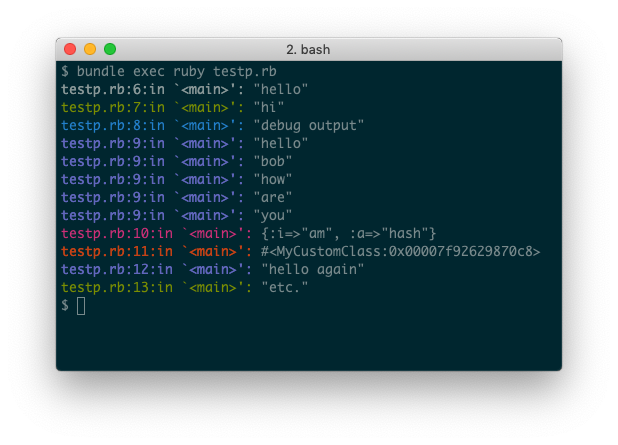
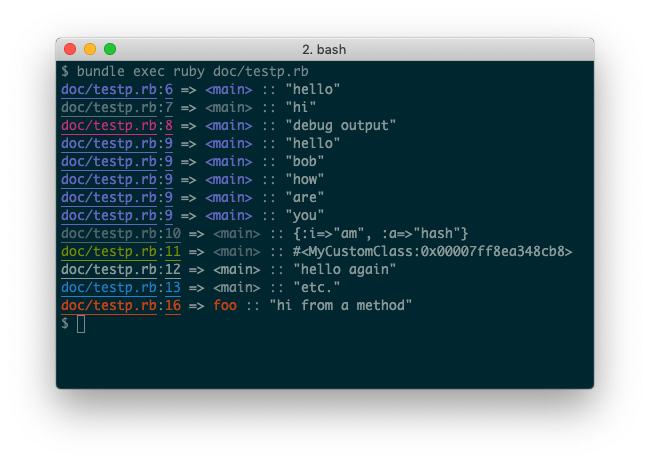
Use relative paths in output, underline prefix
When the source is a file use a relative path in prefix otherwise use
the given path (e.g. "(irb)").

Underline the file and line number to help distinguish output among
other colourised output (e.g. RSpec output).

Refactor and add more tests.

Changed region(s): [[0.0615, 0.0876, 0.9223, 0.8472]]

diff --git a/lib/betterp/output.rb b/lib/betterp/output.rb
@@ -1,38 +1,62 @@
+# frozen_string_literal: true
+
 module Betterp
   class Output
-    COLORS = %i[
-      red
-      green
-      yellow
-      blue
-      magenta
-      cyan
-    ].freeze
-
+    COLORS = %i[red green yellow blue magenta cyan].freeze
     EFFECTS = [:bright, nil].freeze
 
-    def initialize(source)
+    def initialize(raw, source)
+      @raw = raw
       @source = source
+      @color = color
+      @effect = effect
     end
 
     def format(args)
       args.map do |arg|
-        colorize("#{@source}: ") + arg.inspect
+        colorize(prefix) + Paint[arg.inspect, :default, :bright]
       end
     end
 
     private
 
+    def prefix
+      # rubocop:disable Style/FormatStringToken
+      [
+        '%{path}',
+        '%{separator}',
+        '%{line_no}',
+        '%{method_pointer}',
+        '%{method_name}',
+        '%{terminator}'
+      ].join
+      # rubocop:enable Style/FormatStringToken
+    end
+
     def colorize(string)
-      Paint[string, color, effect]
+      # rubocop:disable Style/FormatString
+      Paint % [string, color, mapping]
+      # rubocop:enable Style/FormatString
+    end
+
+    def mapping
+      {
+        path: [@source.path, color, :underline, effect],
+        line_no: [@source.line_no, :underline, color, effect],
+        method_name: [@source.method_name, color, effect],
+
+        method_pointer: [' => ', :default, :reset, :bright],
+        separator: [':', :default, :reset],
+        terminator: [' :: ', :default, :reset]
+      }
     end
 
     def color
-      COLORS[hash(@source).hex % COLORS.size]
+      COLORS[hash(@raw).hex % COLORS.size]
     end
 
     def effect
-      EFFECTS[hash(hash(@source)).hex % EFFECTS.size]
+      EFFECTS[hash(hash(@raw)).hex % EFFECTS.size]
     end
 
     def hash(input)

diff --git a/spec/betterp/output_spec.rb b/spec/betterp/output_spec.rb
@@ -1,0 +1,28 @@
+# frozen_string_literal: true
+
+RSpec.describe Betterp::Output do
+  subject(:output) { described_class.new(raw, source) }
+
+  let(:raw) { 'raw caller info' }
+  let(:source) do
+    instance_double(
+      Betterp::Source,
+      path: '/path/to/file.rb',
+      line_no: 100,
+      method_name: 'test_method'
+    )
+  end
+
+  it { is_expected.to be_a described_class }
+
+  describe '#format' do
+    subject(:format) { output.format(['hello']) }
+
+    its(:size) { is_expected.to eql 1 }
+    its(:first) { is_expected.to include '/path/to/file.rb' }
+    its(:first) { is_expected.to include 'test_method' }
+    its(:first) { is_expected.to include 'hello' }
+    its(:first) { is_expected.to include '[33m' }
+    its(:first) { is_expected.to end_with '[0m' }
+  end
+end

diff --git a/spec/betterp_spec.rb b/spec/betterp_spec.rb
@@ -6,14 +6,13 @@ RSpec.describe Betterp do
   end
 
   it 'outputs to stdout' do
-    path = __FILE__
-    line_no = 19 # Line we call `p('something')` below.
+    path = Pathname.new(__FILE__).relative_path_from(Betterp.root)
+    line_no = 18 # Line we call `p('something')` below.
     expect(STDOUT)
       .to receive(:write)
       .with(any_args) do |arg|
-        expect(arg).to include "#{path}:#{line_no}"
-        expect(arg).to include "\e[36"
-        expect(arg).to include %Q{\e[0m\"something"\n}
+        expect(arg).to include path.to_s
+        expect(arg).to include line_no.to_s
       end
 
     p('something')

diff --git a/spec/betterp/source_spec.rb b/spec/betterp/source_spec.rb
@@ -1,0 +1,20 @@
+# frozen_string_literal: true
+
+RSpec.describe Betterp::Source do
+  subject(:source) { described_class.new(caller_source, base_path) }
+
+  let(:caller_source) { "#{path}:100:in `test_method'" }
+  let(:path) { '/path/to/file.rb' }
+  let(:base_path) { '/path/to/' }
+
+  it { is_expected.to be_a described_class }
+
+  its(:path) { is_expected.to eql 'file.rb' }
+  its(:line_no) { is_expected.to eql 100 }
+  its(:method_name) { is_expected.to eql 'test_method' }
+
+  context 'path is not a file' do
+    let(:path) { '(irb)' }
+    its(:path) { is_expected.to eql '(irb)' }
+  end
+end

diff --git a/lib/betterp/source.rb b/lib/betterp/source.rb
@@ -1,0 +1,25 @@
+# frozen_string_literal: true
+
+module Betterp
+  class Source
+    def initialize(source, base_path)
+      @source = source
+      @base_path = base_path
+      @path, @line_no, @method_info = source.split(':')
+    end
+
+    def path
+      Pathname.new(@path).relative_path_from(Pathname.new(@base_path)).to_s
+    rescue ArgumentError
+      @path
+    end
+
+    def line_no
+      @line_no.to_i
+    end
+
+    def method_name
+      @method_info.partition('`').last.chomp("'")
+    end
+  end
+end

diff --git a/lib/kernel.rb b/lib/kernel.rb
@@ -1,8 +1,14 @@
+# frozen_string_literal: true
+
 module Kernel
   def p(*args)
-    Betterp::Output.new(caller(1..1).first).format(args).each do |output|
+    raw = caller(1..1).first
+    source = Betterp::Source.new(raw, Dir.pwd)
+
+    Betterp::Output.new(raw, source).format(args).each do |output|
       STDOUT.write(output + "\n")
     end
+
     args.size > 1 ? args : args.first
   end
 end

diff --git a/doc/testp.rb b/doc/testp.rb
@@ -1,0 +1,19 @@
+require 'betterp'
+
+class MyCustomClass
+end
+
+p 'hello'
+p 'hi'
+p 'debug output'
+p *%w[hello bob how are you]
+p({ i: 'am', a: 'hash' })
+p MyCustomClass.new
+p 'hello again'
+p 'etc.'
+
+def foo
+  p 'hi from a method'
+end
+
+foo

diff --git a/spec/spec_helper.rb b/spec/spec_helper.rb
@@ -1,7 +1,11 @@
 # frozen_string_literal: true
 
 require 'bundler/setup'
+require 'tempfile'
+
 require 'betterp'
+
+require 'rspec/its'
 
 RSpec.configure do |config|
   # Enable flags like --only-failures and --next-failure

diff --git a/lib/betterp.rb b/lib/betterp.rb
@@ -6,7 +6,11 @@ require 'paint'
 
 require 'kernel'
 require 'betterp/output'
+require 'betterp/source'
 require 'betterp/version'
 
 module Betterp
+  def self.root
+    Pathname.new(File.dirname(__dir__))
+  end
 end

diff --git a/lib/betterp/version.rb b/lib/betterp/version.rb
@@ -1,5 +1,5 @@
 # frozen_string_literal: true
 
 module Betterp
-  VERSION = '0.1.0'
+  VERSION = '0.1.1'
 end
